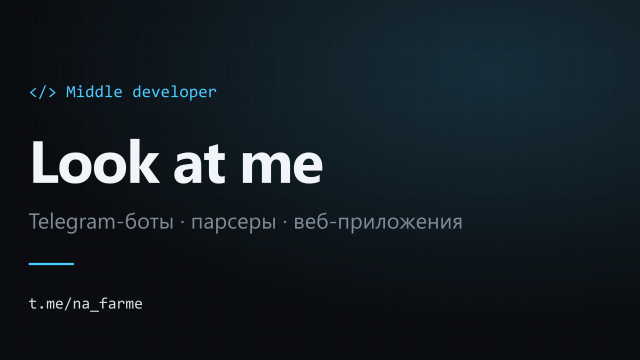
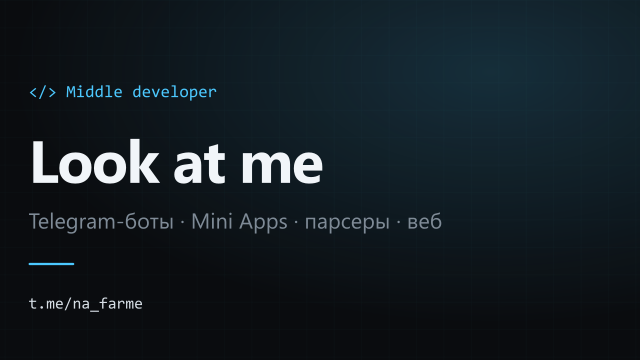
Add email, specialties line in hero, rewrite About text, drop em dashes

Changed region(s): [[0.2812, 0.5806, 0.7188, 0.6417]]

diff --git a/script.js b/script.js
@@ -1,5 +1,5 @@
 /* =====================================================================
-   ЛИЧНЫЕ ДАННЫЕ — меняйте только этот блок.
+   ЛИЧНЫЕ ДАННЫЕ: меняйте только этот блок.
    Мета-теги для превью ссылки (title, og:*) лежат в <head> index.html,
    их нужно поправить там же: Telegram не выполняет JavaScript.
    ===================================================================== */
@@ -8,16 +8,17 @@ const CONFIG = {
   shortName: "LM", // буквы в логотипе
   role: "Middle developer",
   status: "открыт к проектам",
-  tagline: "Разрабатываю Telegram-ботов, парсеры и веб-приложения",
+  // направления в первом экране, выводятся в одну строку через точки
+  specialties: ["Telegram-боты", "Mini Apps", "Парсеры", "Веб-приложения", "Автоматизация", "API-интеграции"],
 
   telegram: "na_farme", // без @
-  email: "you@example.com",
+  email: "levtarasenko0305@gmail.com",
   github: "LookatmeDev",
 
   about: [
-    "Я middle-разработчик: делаю Telegram-ботов, парсеры и веб-приложения под ключ — от идеи и архитектуры до деплоя и поддержки.",
-    "Пишу бэкенд на Go и Python, фронтенд на TypeScript и React. Люблю, когда система простая внутри: понятные модули, тесты и Docker, чтобы проект запускался одной командой.",
-    "Сначала разбираюсь в задаче бизнеса, потом пишу код. Показываю промежуточный результат, а не пропадаю на месяц.",
+    "Привет! Я разработчик уровня middle. Делаю Telegram-ботов, мини-приложения, парсеры и сайты, причём веду проект целиком: от первой идеи до запуска на сервере.",
+    "Бэкенд пишу на Go и Python, интерфейсы на TypeScript и React. Мне важно, чтобы внутри всё было просто и понятно. Поэтому код покрыт тестами, а проект упакован в Docker и запускается одной командой.",
+    "Прежде чем садиться за код, разбираюсь, какую задачу на самом деле нужно решить. По ходу работы показываю, что уже готово, так что вы всегда знаете, на каком этапе проект.",
   ],
 
   facts: [
@@ -36,7 +37,7 @@ const CONFIG = {
   ],
 
   steps: [
-    { title: "Что делаю", text: "Telegram-боты и мини-аппы, парсеры и сбор данных, сайты и PWA, интеграции с API и автоматизация рутины.", meta: "боты · парсеры · веб" },
+    { title: "Что делаю", text: "Telegram-боты и Mini Apps, парсеры и сбор данных, сайты и PWA, интеграции с API и автоматизация рутины.", meta: "боты · парсеры · веб" },
     { title: "Бриф и оценка", text: "Обсуждаем задачу, я предлагаю решение, фиксируем объём работ, стоимость и сроки.", meta: "1–2 дня" },
     { title: "Разработка", text: "Работаю итерациями и показываю промежуточный результат. Вы видите прогресс и можете поправить курс.", meta: "от 3 дней до 4 недель" },
     { title: "Запуск и поддержка", text: "Деплою на ваш сервер или хостинг, передаю код и инструкцию. Исправляю ошибки после запуска.", meta: "2 недели гарантии" },
@@ -83,6 +84,9 @@ function applyConfig() {
     email: "mailto:" + CONFIG.email,
     github: "https://github.com/" + CONFIG.github,
   };
+
+  const specialties = $("[data-config-list='specialties']");
+  specialties.replaceChildren(...CONFIG.specialties.map((text) => el("li", { class: "spec", text })));
 
   $$("[data-config]").forEach((node) => {
     const value = values[node.dataset.config];
@@ -148,7 +152,7 @@ function projectCard(project) {
       width: 800,
       height: 500,
     });
-    // если файл не найден — показываем заглушку
+    // если файл не найден, показываем заглушку
     img.addEventListener("error", () => img.replaceWith(placeholder(project.title)));
     media.append(img);
   } else {
@@ -238,10 +242,10 @@ async function loadProjects() {
       message.append(
         "Браузер не даёт читать projects.json при открытии файла напрямую. Запустите в папке сайта ",
         el("code", { text: "python -m http.server" }),
-        " и откройте http://localhost:8000 — на GitHub Pages всё работает само."
+        " и откройте http://localhost:8000. На GitHub Pages всё работает само."
       );
     } else {
-      message.textContent = "Не удалось загрузить проекты. Проверьте, что projects.json — корректный JSON.";
+      message.textContent = "Не удалось загрузить проекты. Проверьте, что в projects.json корректный JSON.";
     }
     grid.replaceChildren(message);
   }

diff --git a/index.html b/index.html
@@ -7,23 +7,23 @@
 
   <!-- SEO и превью ссылки. Эти значения читают Telegram и соцсети без JavaScript,
        поэтому их нужно поменять здесь вручную (имя, описание, адрес сайта). -->
-  <title>Look at me — Middle developer</title>
-  <meta name="description" content="Разрабатываю Telegram-ботов, парсеры и веб-приложения. Портфолио, стек и контакты.">
+  <title>Look at me · Middle developer</title>
+  <meta name="description" content="Telegram-боты, Mini Apps, парсеры, веб-приложения и автоматизация. Портфолио, стек и контакты.">
   <link rel="canonical" href="https://lookatmedev.github.io/">
 
   <meta property="og:type" content="website">
   <meta property="og:locale" content="ru_RU">
   <meta property="og:site_name" content="Look at me">
-  <meta property="og:title" content="Look at me — Middle developer">
-  <meta property="og:description" content="Разрабатываю Telegram-ботов, парсеры и веб-приложения.">
+  <meta property="og:title" content="Look at me · Middle developer">
+  <meta property="og:description" content="Telegram-боты, Mini Apps, парсеры, веб-приложения и автоматизация.">
   <meta property="og:url" content="https://lookatmedev.github.io/">
   <meta property="og:image" content="https://lookatmedev.github.io/assets/og-image.png">
   <meta property="og:image:width" content="1200">
   <meta property="og:image:height" content="630">
 
   <meta name="twitter:card" content="summary_large_image">
-  <meta name="twitter:title" content="Look at me — Middle developer">
-  <meta name="twitter:description" content="Разрабатываю Telegram-ботов, парсеры и веб-приложения.">
+  <meta name="twitter:title" content="Look at me · Middle developer">
+  <meta name="twitter:description" content="Telegram-боты, Mini Apps, парсеры, веб-приложения и автоматизация.">
   <meta name="twitter:image" content="https://lookatmedev.github.io/assets/og-image.png">
 
   <link rel="icon" href="assets/favicon.svg" type="image/svg+xml">
@@ -67,7 +67,9 @@
       <div class="container hero__inner">
         <p class="hero__label mono reveal"><span class="dot" aria-hidden="true"></span> <span data-config="role">Middle developer</span> · <span data-config="status">открыт к проектам</span></p>
         <h1 class="hero__title reveal" id="hero-title" data-config="name">Look at me</h1>
-        <p class="hero__tagline reveal" data-config="tagline">Разрабатываю Telegram-ботов, парсеры и веб-приложения</p>
+        <ul class="hero__specs reveal" data-config-list="specialties" aria-label="Чем занимаюсь">
+          <li class="spec">Telegram-боты</li><li class="spec">Mini Apps</li><li class="spec">Парсеры</li><li class="spec">Веб-приложения</li><li class="spec">Автоматизация</li><li class="spec">API-интеграции</li>
+        </ul>
         <div class="hero__actions reveal">
           <a class="btn btn--primary" href="#projects">Смотреть проекты</a>
           <a class="btn btn--ghost" href="https://t.me/na_farme" data-config-href="telegram" target="_blank" rel="noopener">
@@ -132,16 +134,16 @@
         <div class="contact-card reveal">
           <p class="section__label mono">05 / contacts</p>
           <h2 class="section__title" id="contacts-title">Обсудим ваш проект?</h2>
-          <p class="contact-card__text">Опишите задачу в паре предложений — отвечу в течение дня, предложу решение и примерные сроки.</p>
+          <p class="contact-card__text">Опишите задачу в паре предложений. Отвечу в течение дня, предложу решение и примерные сроки.</p>
           <a class="btn btn--primary btn--lg" href="https://t.me/na_farme" data-config-href="telegram" target="_blank" rel="noopener">
             <svg class="icon" aria-hidden="true" viewBox="0 0 24 24"><path d="M21.5 4.2 2.9 11.4c-1.3.5-1.3 1.2-.2 1.5l4.8 1.5 1.8 5.6c.2.6.4.8.9.8.4 0 .6-.2.9-.4l2.3-2.2 4.7 3.5c.9.5 1.5.2 1.7-.8l3.1-14.6c.3-1.3-.5-1.8-1.4-1.6ZM9.2 14.2l8.6-5.4c.4-.3.8-.1.5.2l-7.2 6.5-.3 3.1-1.6-4.4Z"/></svg>
             <span data-config="telegramHandle">@na_farme</span>
           </a>
           <ul class="contact-links">
             <li>
-              <a class="contact-link" href="mailto:you@example.com" data-config-href="email">
+              <a class="contact-link" href="mailto:levtarasenko0305@gmail.com" data-config-href="email">
                 <span class="mono contact-link__label">email</span>
-                <span data-config="email">you@example.com</span>
+                <span data-config="email">levtarasenko0305@gmail.com</span>
               </a>
             </li>
             <li>

diff --git a/style.css b/style.css
@@ -249,12 +249,31 @@ h1, h2, h3, p { margin: 0; }
   color: var(--text-strong);
   margin-bottom: 22px;
 }
-.hero__tagline {
-  max-width: 640px;
+/* Направления: у каждого пункта своя светящаяся точка, переносятся целыми пунктами */
+.hero__specs {
+  display: flex;
+  flex-wrap: wrap;
+  align-items: center;
+  max-width: 760px;
+  gap: 6px 24px;
+  margin-bottom: 40px;
   font-size: clamp(18px, 2.4vw, 23px);
   line-height: 1.5;
-  color: var(--muted);
-  margin-bottom: 40px;
+  font-weight: 500;
+  color: var(--text);
+}
+.spec { white-space: nowrap; }
+.spec::before {
+  content: "";
+  display: inline-block;
+  width: 6px;
+  height: 6px;
+  margin-right: 10px;
+  vertical-align: middle;
+  border-radius: 50%;
+  background: var(--accent);
+  box-shadow: 0 0 8px var(--accent-glow);
+  transform: translateY(-1px);
 }
 .hero__actions { display: flex; flex-wrap: wrap; gap: 12px; }
 
